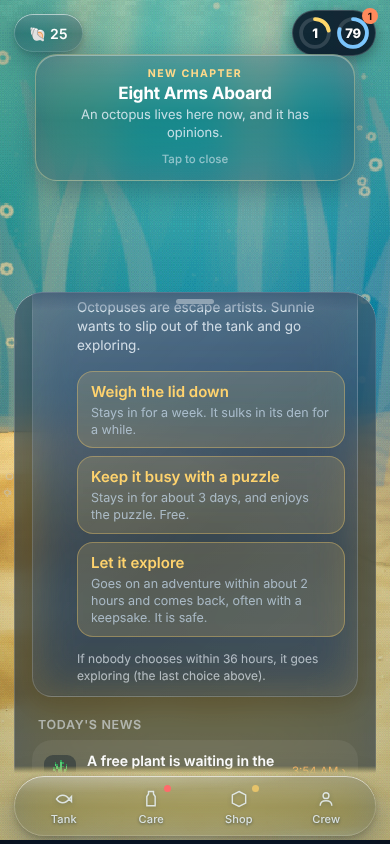
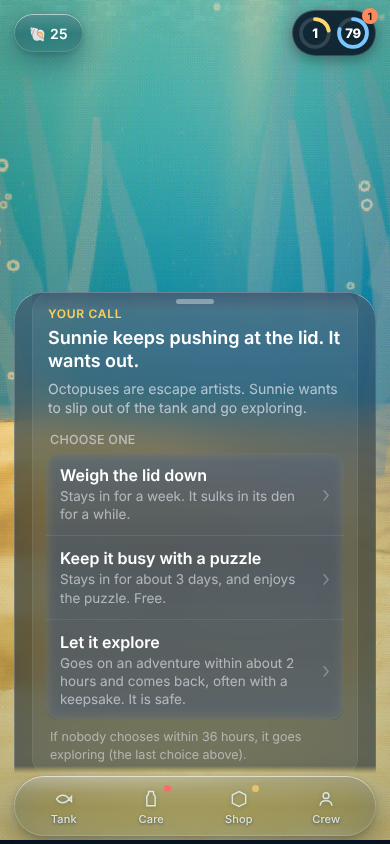
Every choice looks like a choice: one iOS-style list for decisions, pop-up choosers and the goal picker
A rounded group of rows, each with the option's name, a line on what it leads to, and a chevron; hairline separators, a pressed state, system font. Decisions sit in their own card: YOUR CALL, the question, why, CHOOSE ONE, the list, and a footnote on who chooses first and what happens if nobody does. Pop-up choosers no longer pre-highlight the first option (it read as already chosen); 'Name · detail' labels split into a title and a subtitle.

Claude-Session: https://claude.ai/code/session_01AcX8wdAS6t2Ysits5NhkSb

diff --git a/web/src/ui.js b/web/src/ui.js
@@ -136,7 +136,10 @@ export function initUI({ game, social, cb }) {
     const whose = turn ? (turn.uid === me ? `It is your animal, so you choose first (until ${new Date(turn.until).toLocaleTimeString([], { hour: 'numeric', minute: '2-digit' })}); after that anyone in the tank can.` : `It is ${esc(turn.name)}'s animal, so ${esc(turn.name)} chooses first (until ${new Date(turn.until).toLocaleTimeString([], { hour: 'numeric', minute: '2-digit' })}); after that you can too.`) : '';
     const dflt = H.dflt ? `If nobody chooses ${left < 60e3 ? 'soon' : 'within ' + eta(left).replace(/(\d+)h$/, '$1 hours').replace(/(\d+) ?min$/, '$1 minutes')}, ${H.dflt} (the last choice above).` : '';
     const nm = S()?.fish.find((f) => f.id === D.fish?.[0])?.name;
-    return `<p class="dwhy">${esc(nm ? (H.why ?? '').replace(/\bIt (wants|may)/, `${nm} $1`) : H.why ?? '')}</p><div class="dopts">${D.opts.map((o) => `<button class="dopt" data-decide="${esc(o.k)}" ${turn && turn.uid !== me ? 'disabled' : ''}><b>${esc(o.label)}</b>${H.k[o.k] ? `<small>${esc(H.k[o.k])}</small>` : ''}</button>`).join('')}</div>${whose ? `<p class="dnote">${whose}</p>` : ''}${dflt ? `<p class="dnote">${esc(dflt)}</p>` : ''}`; };
+    return `<p class="dwhy">${esc(nm ? (H.why ?? '').replace(/\bIt (wants|may)/, `${nm} $1`) : H.why ?? '')}</p><p class="clabel">${turn && turn.uid !== me ? `${esc(turn.name).toUpperCase()} CHOOSES` : 'CHOOSE ONE'}</p>${choiceList(D.opts.map((o) => ({ title: o.label, sub: H.k[o.k], attr: `data-decide="${esc(o.k)}"`, off: !!(turn && turn.uid !== me) })))}${whose || dflt ? `<p class="cfoot">${[whose, esc(dflt)].filter(Boolean).join(' ')}</p>` : ''}`; };
+  const decisionCard = (D) => `<div class="dcard"><small class="ckick">${D.turn && Date.now() < D.turn.until && D.turn.uid !== game.you?.userId ? `${esc(D.turn.name).toUpperCase()}'S CALL` : 'YOUR CALL'}</small><p class="dq">${esc(D.text)}</p>${dilemmaHtml(D)}</div>`;
+  // One look for every choice in the game (iOS inset grouped list): a row per option, its name, a line on what it does, a chevron.
+  const choiceList = (rows) => `<div class="clist">${rows.map((r) => `<button class="crow" ${r.attr} ${r.off ? 'disabled' : ''}><span><b>${esc(r.title)}</b>${r.sub ? `<small>${esc(r.sub)}</small>` : ''}${r.meta ? `<small class="cmeta">${esc(r.meta)}</small>` : ''}</span><i aria-hidden="true">›</i></button>`).join('')}</div>`;
   const nowRow = (out, icon, text, act, when = '', extra = '', info = '') => out.push(`<div class="nowr${extra ? ' big' : ''}"><button class="nowb" ${info ? `data-info="${info}"` : `data-act="${act}"`}><i>${pix(icon, 22)}</i><span>${text}</span>${when ? `<b>${when}</b>` : ''}<em>›</em></button>${extra}</div>`);
   const careHtml = () => { const s = S(); if (!s || (s.flags.tut ?? 0) < 5) return ''; const me = game.you?.userId, live = s.fish.filter((f) => !f.dead && !f.away), out = [];
     if (live.some((f) => !ownFood(f)) && s.hunger > 0.3) nowRow(out, '🫙', 'The fish are hungry', 'nowcare', 'feed');
@@ -147,7 +150,7 @@ export function initUI({ game, social, cb }) {
     return `<h4 class="ntsh">Needs you</h4>${out.length ? `<div class="nowl">${out.join('')}</div>` : `<div class="nowl"><div class="nowr calm"><span class="nowb"><i class="ok">✓</i><span>All looked after. Nothing needs you right now.</span></span></div></div>`}`; };
   const happenHtml = () => { const s = S(); if (!s || (s.flags.tut ?? 0) < 5) return ''; const me = game.you?.userId, out = [];
     const D = s.dilemma && !s.dilemma.done ? s.dilemma : null, mine = D && (!D.turn || D.turn.uid === me || Date.now() > D.turn.until);
-    if (D && mine) nowRow(out, '✨', `${D.turn && Date.now() < D.turn.until && D.turn.uid !== game.you?.userId ? `${esc(D.turn.name)}'s call` : 'Your call'}: ${esc(D.text)}`, 'nowcare', 'decide', `<div class="nowopts">${dilemmaHtml(D)}</div>`);      // (decided right here)
+    if (D && mine) out.push(decisionCard(D));      // (decided right here)
     else if (D) nowRow(out, '✨', `${esc(D.turn.name)}'s call: ${esc(D.text)}`, 'nowcare');
     { const O = !D && s.omen && Date.now() - s.omen.at < 2.5 * 864e5 ? s.omen : null, [x, y] = O ? O.fish.map((id) => s.fish.find((f) => f.id === id)) : []; if (O && x) nowRow(out, '👀', esc(O.kind === 'lid' ? `${x.name} keeps reaching up to the lid` : O.kind === 'chase' ? `${x.name} keeps chasing ${y?.name ?? 'another fish'}` : O.kind === 'sick' ? `${x.name} looks a little pale` : `${x.name} and ${y?.name ?? 'another'} are eyeing the same den`), 'nowtank', 'watch', '', 'omen:'); }
     if ((s.eggs ?? []).some((e) => e.ready) || s.fish.some((f) => f.preg?.ready && !f.dead)) nowRow(out, '🥚', 'Ready to hatch: stay and watch', 'egg', 'now');
@@ -204,7 +207,7 @@ export function initUI({ game, social, cb }) {
       return;
     }
     const offer = (s.goalOffer ?? []).map((k) => [k, GOALS[k]]).filter(([, x]) => x);
-    modal.innerHTML = `<div class="box gsheet"><h2>Choose a goal</h2><p class="gbl">A long aim for the tank. Each one takes days, and each step tells you how.</p>${offer.map(([k, x]) => `<button class="gch" data-goal="${esc(k)}"><b>${esc(x.title)}</b><small>${esc(x.blurb)}</small><em class="gpace">${esc(GOAL_PACE[k]?.[0] ?? '')} · ${x.steps.length} steps${GOAL_PACE[k]?.[1] ? ` · needs ${esc(GOAL_PACE[k][1])}` : ''}</em><i class="gchev">›</i></button>`).join('')}${prizeLabel(nextPrize(s)) ? `<p class="gprize">${msIcon('gift', true, 16)} Finishing any of them unlocks the ${esc(prizeLabel(nextPrize(s)))}.</p>` : ''}${finished}<button class="lnk" id="mno">Not now</button></div>`;
+    modal.innerHTML = `<div class="box gsheet"><h2>Choose a goal</h2><p class="gbl">A long aim for the tank. Each one takes days, and each step tells you how.</p>${choiceList(offer.map(([k, x]) => ({ title: x.title, sub: x.blurb, meta: `${GOAL_PACE[k]?.[0] ?? ''} · ${x.steps.length} steps${GOAL_PACE[k]?.[1] ? ` · needs ${GOAL_PACE[k][1]}` : ''}`, attr: `data-goal="${esc(k)}"` })))}${prizeLabel(nextPrize(s)) ? `<p class="gprize">${msIcon('gift', true, 16)} Finishing any of them unlocks the ${esc(prizeLabel(nextPrize(s)))}.</p>` : ''}${finished}<button class="lnk" id="mno">Not now</button></div>`;
     modal.classList.add('on'); $('mno').onclick = () => modal.classList.remove('on');
     modal.querySelectorAll('[data-goal]').forEach((b) => { b.onclick = async () => { const r = await game.dispatch({ t: 'pickGoal', id: b.dataset.goal }); modal.classList.remove('on'); if (!r.ok) { toast(REASONS[r.reason] ?? 'That did not work.'); return; } sfx('arrive'); updateHeader(); setTimeout(goalSheet, 450); }; });
   }
@@ -697,7 +700,7 @@ export function initUI({ game, social, cb }) {
       const lay = layoutOf(s).notes[0] ?? null, my = mysteryOf(s), myst = my ? (my.done ? esc(my.line) : `${esc(MYSTERY[my.kind]?.text ?? '')} Tap the glow to find out.`) : null;
       const ahead2 = ahead.filter((x) => !/expecting/i.test(x.text) && !(/eggs|hatch/i.test(x.text) && !/ready/i.test(x.text)));      /* (a pregnancy or eggs already have their own row above) */
       const comingCare = ahead2.length || req || lay || myst ? `<div class="soon"><h5>Today and coming up</h5>${req ? `<div class="tap" role="button" ${s.want && s.fish.some((f) => f.id === s.want.fish && !f.dead && !f.away) ? `data-animal="${esc(s.want.fish)}"` : ''}><i>${pix('✨', 22)}</i><span>${req}</span><b>request ›</b></div>` : ''}${myst ? `<div><i>${pix('🫧', 22)}</i><span>${myst}</span><b>${my.done ? 'found' : 'mystery'}</b></div>` : ''}${lay ? `<div class="tap" role="button" data-act="rearrange"><i>${pix('🌿', 22)}</i><span>${esc(lay)}</span><b>tip ›</b></div>` : ''}${ahead2.map((x) => `<div${/surprise/.test(x.text) ? ' class="tap" role="button" data-act="feeddrawer"' : ''}><i>${x.fish ? `<img alt="" class="fthumb" src="${fishThumb(x.species, x.pal ?? null)}">` : pix(x.icon, 22)}</i><span>${esc(x.text)}</span>${x.when ? `<b>${x.when}${/surprise/.test(x.text) ? ' ›' : ''}</b>` : ''}</div>`).join('')}</div>` : '';
-      const dl = s.dilemma && !s.dilemma.done ? `<div class="dilemma"><b>${s.dilemma.turn && Date.now() < s.dilemma.turn.until ? (s.dilemma.turn.uid === game.you?.userId ? 'Your call' : `${esc(s.dilemma.turn.name)}'s call`) : 'Your call'}</b><p>${esc(s.dilemma.text)}</p>${dilemmaHtml(s.dilemma)}</div>` : '';      // a decision that is yours to make, with what each choice is
+      const dl = s.dilemma && !s.dilemma.done ? decisionCard(s.dilemma) : '';      // a decision that is yours to make, with what each choice is
       return `<div class="crew care2"><h3>Care</h3>${seg}<p class="todaysub">${due.length ? due.length === 1 ? 'One thing needs you right now.' : `${due.length} things need you right now.` : 'All done. Here is when each job comes around again.'}</p>${dl}<div class="cgroup">${chores.filter((c) => c.feed).map(row).join('')}${healthRow(s)}</div><h4>Tank</h4><div class="cgroup">${chores.filter((c) => !c.feed).map(row).join('')}</div>
         ${comingCare}${(() => { const sk = skyOf(Date.now()); return sk.event ? `<div class="moodchip sky"><b>${esc(sk.event.label)}</b> · ${esc(sk.event.text)}</div>` : ''; })()}</div>`;      // Care is two things: what needs you, and what is coming (no daily checklist: this is not a chore list)
     },
@@ -1058,7 +1061,7 @@ export function initUI({ game, social, cb }) {
   // a small chooser: one tap on one of a few options (or Not now)
   function choose({ title, text = '', options, cancel = 'Not now', moment = false }) {
     return modalFree(moment).then(() => new Promise((res) => {
-      modal.innerHTML = `<div class="box"><h2>${esc(title)}</h2>${text ? `<p>${esc(text)}</p>` : ''}<div class="chooser">${options.map((o, i) => `<button class="big ${i ? 'alt' : ''}" data-i="${i}">${esc(o.label)}</button>`).join('')}</div>${cancel ? `<button class="lnk" id="mno">${esc(cancel)}</button>` : ''}</div>`;
+      modal.innerHTML = `<div class="box"><h2>${esc(title)}</h2>${text ? `<p>${esc(text)}</p>` : ''}${choiceList(options.map((o, i) => { const [t, ...rest] = String(o.label).split(' · '); return { title: t, sub: o.sub ?? rest.join(' · '), attr: `data-i="${i}"` }; }))}${cancel ? `<button class="lnk" id="mno">${esc(cancel)}</button>` : ''}</div>`;
       modal.classList.add('on'); const done = (v) => { modal.classList.remove('on'); res(v); };
       modal.querySelectorAll('[data-i]').forEach((b) => { b.onclick = () => done(options[+b.dataset.i].value); }); const no = $('mno'); if (no) no.onclick = () => done(undefined);
     }));

diff --git a/web/index.html b/web/index.html
@@ -292,7 +292,22 @@
   #sheet .shown{display:grid;grid-template-columns:1fr 1fr;gap:8px;margin:6px 0 12px}#sheet .shown div{padding:10px 12px;border-radius:16px;background:rgba(255,255,255,.07)}#sheet .shown b{display:block;font-size:13px}#sheet .shown small{opacity:.7;font-size:11.5px}#sheet .shown .nope{opacity:.5}
   .needs.one{display:block;font-size:13px;opacity:.9;margin:4px 0}.needs.one .low{color:#ffd28a}
   .genes .pair{all:unset;cursor:pointer;display:block;margin:6px 0;padding:9px 12px;border-radius:14px;background:rgba(255,228,160,.12);font-size:13px}.genes .pair small{opacity:.75;margin-left:6px}
-  #sheet .dwhy{margin:6px 0 10px;font-size:13.5px;line-height:1.4;opacity:.8}#sheet .dopts{display:flex;flex-direction:column;gap:8px}#sheet .nowopts button.dopt,#sheet .dilemma button.dopt,#sheet button.dopt{display:flex;flex-direction:column;align-items:flex-start;gap:3px;text-align:left;width:100%;max-width:100%;box-sizing:border-box;margin:0;padding:10px 14px;border-radius:16px;white-space:normal}#sheet button.dopt b{display:block;font-size:15px}#sheet button.dopt small{display:block;font-size:12.5px;line-height:1.35;opacity:.75;font-weight:400}#sheet button.dopt:disabled{opacity:.55}#sheet .dnote{margin:8px 0 0;font-size:12px;line-height:1.4;opacity:.65}
+  #sheet .dcard{margin:6px 0 14px;padding:16px 14px 14px;border-radius:20px;background:rgba(255,255,255,.07);box-shadow:inset 0 0 0 .5px rgba(255,255,255,.14)}
+  #sheet .dcard .ckick{display:block;margin:0 2px 6px;font:600 12px/1 -apple-system,system-ui,sans-serif;letter-spacing:.06em;color:#ffcf5c}
+  #sheet .dcard .dq{margin:0 2px;font:600 18px/1.3 -apple-system,system-ui,sans-serif;color:#fff}
+  #sheet .dcard .dwhy{margin:6px 2px 0;font:400 14px/1.4 -apple-system,system-ui,sans-serif;color:rgba(235,235,245,.7);opacity:1}
+  .clabel{margin:14px 4px 6px;font:500 12.5px/1.2 -apple-system,system-ui,sans-serif;letter-spacing:.02em;color:rgba(235,235,245,.6)}
+  .clist{border-radius:14px;overflow:hidden;background:rgba(255,255,255,.09);backdrop-filter:blur(6px)}
+  .clist .crow{all:unset;box-sizing:border-box;display:flex;align-items:center;gap:12px;width:100%;min-height:52px;padding:11px 14px 11px 16px;cursor:pointer;color:#fff;text-align:left;border-top:.5px solid rgba(255,255,255,.14);-webkit-tap-highlight-color:transparent;transition:background .12s}
+  .clist .crow:first-child{border-top:0}.clist .crow:active{background:rgba(255,255,255,.14)}.clist .crow:disabled{cursor:default;opacity:.5}
+  .clist .crow span{flex:1;min-width:0;display:flex;flex-direction:column;gap:2px}
+  .clist .crow b{font:600 16px/1.25 -apple-system,system-ui,sans-serif;color:#fff}
+  .clist .crow small{font:400 13.5px/1.35 -apple-system,system-ui,sans-serif;color:rgba(235,235,245,.62)}
+  .clist .crow i{flex:none;font:300 22px/1 -apple-system,system-ui,sans-serif;font-style:normal;color:rgba(235,235,245,.35);margin-left:2px}
+  .clist .crow small.cmeta{margin-top:3px;font-size:12px;color:#ffcf5c;opacity:.85}
+  .cfoot{margin:8px 4px 0;font:400 12.5px/1.4 -apple-system,system-ui,sans-serif;color:rgba(235,235,245,.55)}
+  #modal .box .clist{margin:14px 0 6px;text-align:left}
+  #sheet .dwhy{margin:6px 0 10px;font-size:13.5px;line-height:1.4;opacity:.8}#sheet .dopts{display:flex;flex-direction:column;gap:8px}#sheet .dask{margin:4px 0 8px;font:600 12px ui-monospace,Menlo,monospace;letter-spacing:.1em;text-transform:uppercase;color:#ffe4a0}#sheet .nowopts button.dopt,#sheet .dilemma button.dopt,#sheet button.dopt{display:flex;flex-direction:row;align-items:center;gap:10px;cursor:pointer;background:linear-gradient(180deg,rgba(255,214,120,.22),rgba(255,214,120,.12));border:1.5px solid rgba(255,214,120,.65);box-shadow:0 2px 0 rgba(0,0,0,.25);color:#fff;text-align:left;width:auto;align-self:stretch;max-width:100%;box-sizing:border-box;margin:0;padding:10px 14px;border-radius:16px;white-space:normal}#sheet button.dopt span{flex:1;min-width:0;display:flex;flex-direction:column;gap:3px}#sheet button.dopt em{flex:none;font-style:normal;font-weight:700;font-size:13px;color:#2a1c00;background:#ffcf5c;padding:7px 12px;border-radius:999px}#sheet button.dopt:active{transform:translateY(1px);box-shadow:none;background:rgba(255,214,120,.35)}#sheet button.dopt b{display:block;font-size:15px;color:#ffe4a0}#sheet button.dopt small{display:block;font-size:12.5px;line-height:1.35;opacity:.75;font-weight:400}#sheet button.dopt:disabled{opacity:.55}#sheet .dnote{margin:8px 0 0;font-size:12px;line-height:1.4;opacity:.65}
   #sheet .dilemma{margin:8px 0 14px;padding:14px;border-radius:20px;background:rgba(255,214,120,.12);box-shadow:inset 0 0 0 1px rgba(255,214,120,.3)}#sheet .dilemma>b{font:600 11px ui-monospace,Menlo,monospace;letter-spacing:.14em;color:#ffe4a0;text-transform:uppercase}#sheet .dilemma p{margin:6px 0 10px;font-size:15px}#sheet .dilemma button{all:unset;cursor:pointer;display:block;margin:6px 0;padding:10px 14px;border-radius:14px;background:rgba(255,255,255,.1);font-size:14px}#sheet .dilemma small{display:block;opacity:.65;margin-top:6px;font-size:11.5px}
   #sheet p.layout{margin:6px 0;font-size:12.5px;color:#cfe6ff}
   #sheet .fam{display:grid;grid-template-columns:1fr 1fr;gap:8px;margin:4px 0 10px}#sheet .fam div{display:grid;grid-template-columns:34px 1fr;column-gap:8px;align-items:center;padding:8px 10px;border-radius:14px;background:rgba(255,255,255,.07)}#sheet .fam img{grid-row:span 2;width:34px;height:34px;object-fit:contain}#sheet .fam b{font-size:13px}#sheet .fam small{font-size:11px;opacity:.7}#sheet .fam .rare{box-shadow:inset 0 0 0 1.5px #ffd36e}#sheet .fam .gone{opacity:.55}#sheet small.gen{display:block;opacity:.6;font-size:11px;margin-top:6px}#sheet .fshare{float:right;font-size:12px}

diff --git a/web/sw.js b/web/sw.js
@@ -1,5 +1,5 @@
 // Caches the app shell so the game opens instantly and keeps working without a connection (solo play).
-const V = 'ourtank-v276', SHELL = ['/', '/index.html', '/manifest.webmanifest', '/icon-192.png'];
+const V = 'ourtank-v277', SHELL = ['/', '/index.html', '/manifest.webmanifest', '/icon-192.png'];
 self.addEventListener('install', (e) => { e.waitUntil(caches.open(V).then((c) => c.addAll(SHELL)).then(() => self.skipWaiting())); });
 self.addEventListener('activate', (e) => { e.waitUntil(caches.keys().then((ks) => Promise.all(ks.filter((k) => k !== V).map((k) => caches.delete(k)))).then(() => self.clients.claim())); });
 self.addEventListener('fetch', (e) => {
